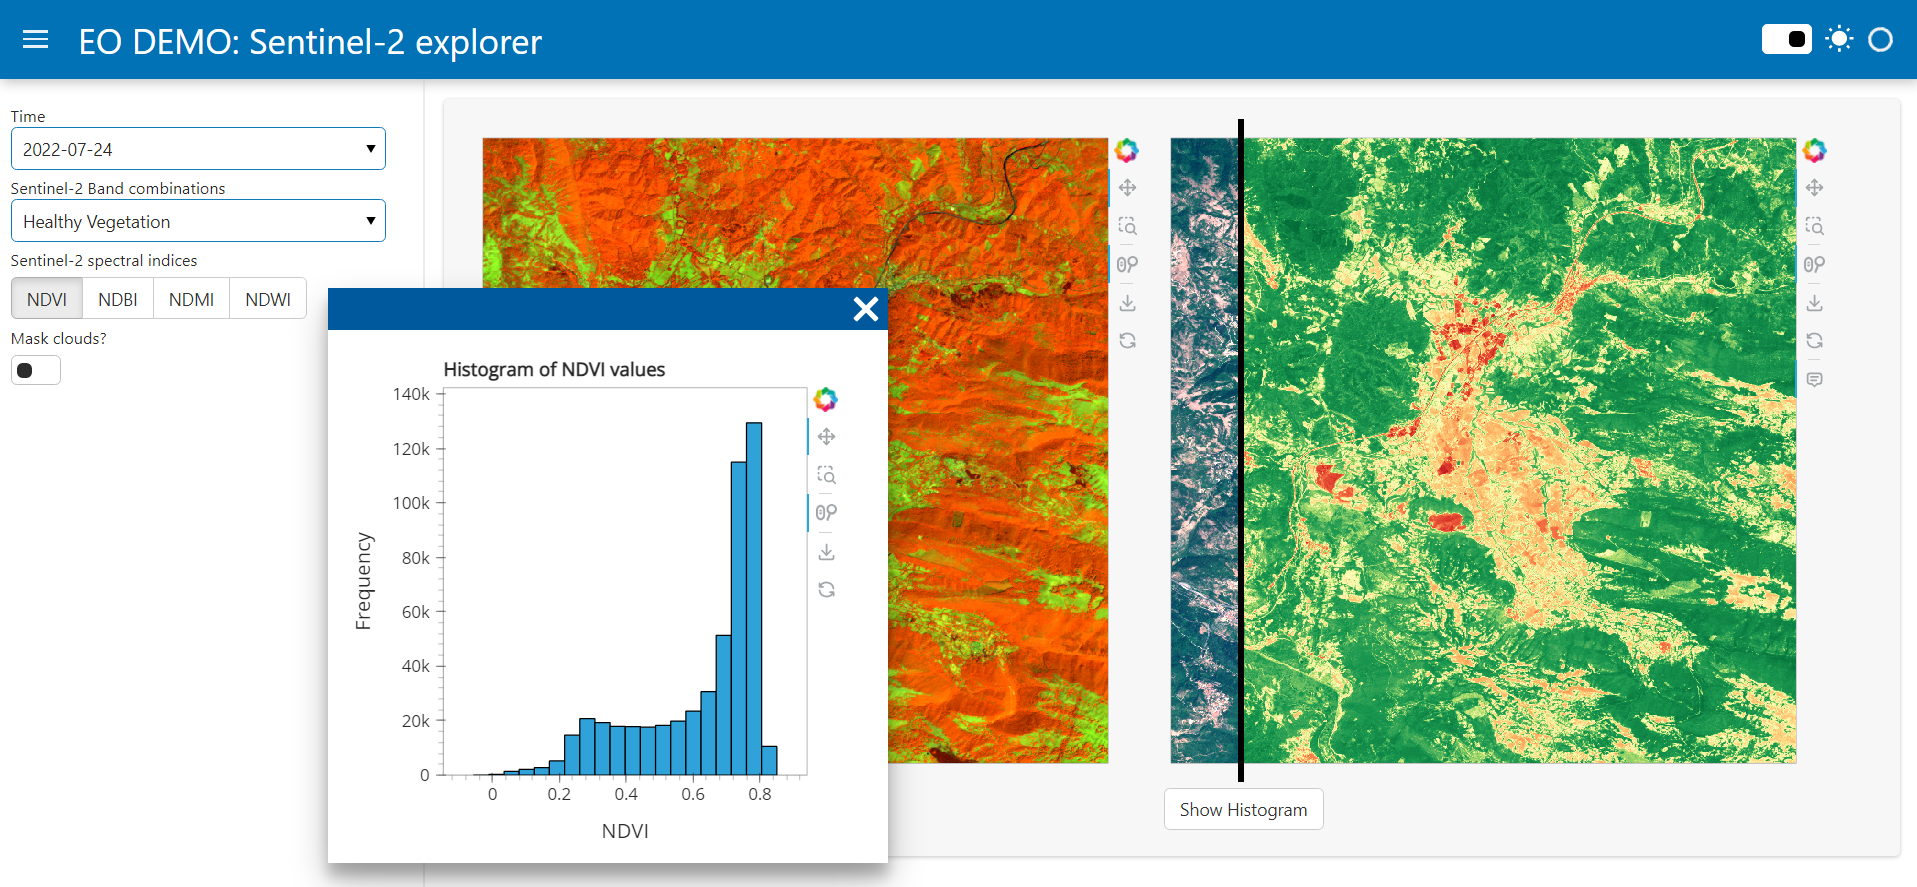
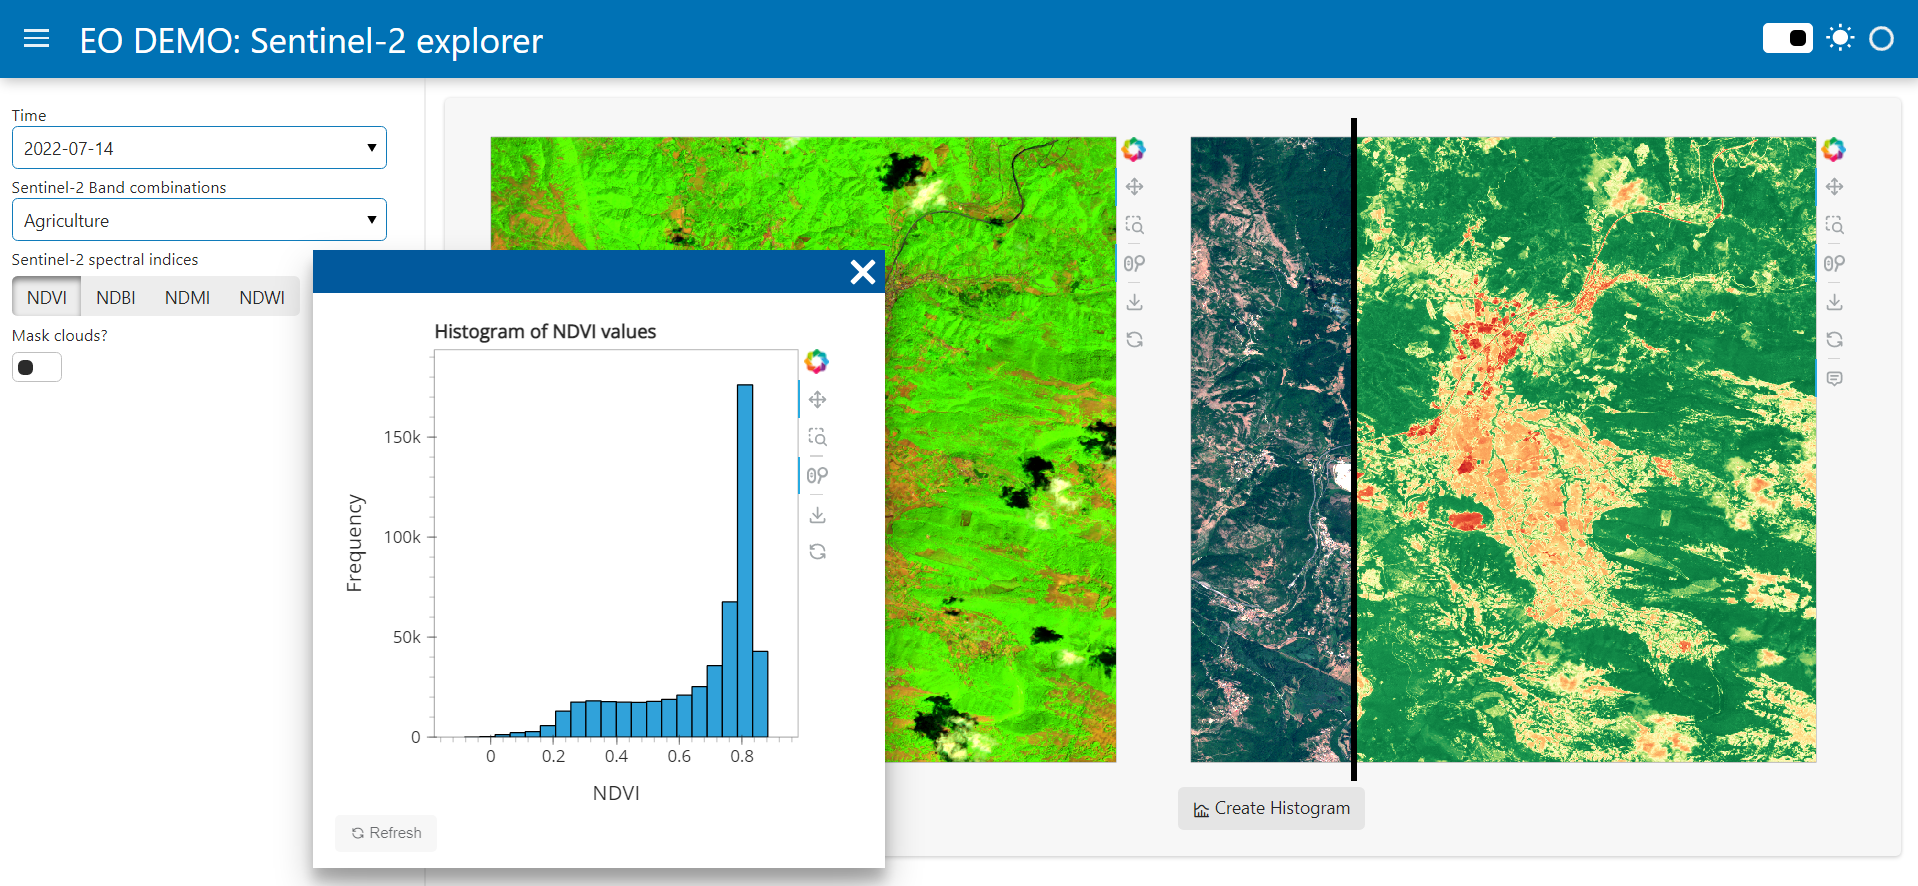
Misc improvements - Added a button to refresh the histogram when the data changes - Updated requirements to include scipy (dependency required by xarray to read netcdf) - Updated s2-panel-app/images/dashboard.png - Updated README.md - Minor fixes

diff --git a/s2-panel-app/app.py b/s2-panel-app/app.py
@@ -7,13 +7,26 @@ from modules.image_plots import (
     plot_s2_spindex,
     plot_true_color_image,
 )
-from modules.image_statistics import plot_s2_spindex_hist
+from modules.image_statistics import HIST_PLACEHOLDER, plot_s2_spindex_hist
 
-# Load floatpanel extension
+# Load the floatpanel extension
 pn.extension("floatpanel")
 
 # Disable webgl: https://github.com/holoviz/panel/issues/4855
 hv.renderer("bokeh").webgl = False
+
+
+def get_band_comb_text(band_comb):
+    """
+    A function that return a StaticText showing
+    the selected band combination.
+    """
+
+    band_comb_text = pn.widgets.StaticText(
+        name="Band Combination", value=", ".join(band_comb)
+    )
+
+    return band_comb_text
 
 
 def create_s2_dashboard():
@@ -47,29 +60,20 @@ def create_s2_dashboard():
         options=S2_SPINDICES,
     )
 
-    # A StaticText showing the selected band combination
-    band_comb_text = pn.widgets.StaticText(
-        name="Band Combination", value=", ".join(S2_BAND_COMB["True Color"])
-    )
-
-    # Save the StaticText to the cache
-    pn.state.cache["band_text"] = band_comb_text
-
-    # Create a placeholder for the FloatPanel
-    placeholder = pn.Column(height=0, width=0)
-
-    # Save the placeholder to the cache so that it can be used in the histogram function
-    pn.state.cache["placeholder"] = placeholder
-
-    # Histogram button
-    show_hist_bt = pn.widgets.Button(name="Show Histogram")
+    # Create histogram button
+    show_hist_bt = pn.widgets.Button(name="Create Histogram", icon="chart-histogram")
     show_hist_bt.on_click(plot_s2_spindex_hist)
 
     # Mask clouds Switch
     clm_title = pn.widgets.StaticText(name="", value="Mask clouds?")
     clm_switch = pn.widgets.Switch(name="Switch")
 
-    # Bind image plots
+    # Bind image plots and widgets to the selectors
+    s2_band_comb_text_bind = pn.bind(
+        get_band_comb_text,
+        band_comb=s2_band_comb_select,
+    )
+
     s2_true_color_bind = pn.bind(
         plot_true_color_image,
         in_data=s2_data,
@@ -98,8 +102,8 @@ def create_s2_dashboard():
 
     # Create the main layout
     main_layout = pn.Row(
-        pn.Column(s2_band_comb_bind, band_comb_text),
-        pn.Column(placeholder, spindex_truecolor_swipe, show_hist_bt),
+        pn.Column(s2_band_comb_bind, s2_band_comb_text_bind),
+        pn.Column(HIST_PLACEHOLDER, spindex_truecolor_swipe, show_hist_bt),
     )
 
     # Create the dashboard and turn into a deployable application

diff --git a/s2-panel-app/modules/image_statistics.py b/s2-panel-app/modules/image_statistics.py
@@ -4,6 +4,31 @@ import panel as pn
 from bokeh.models import WheelZoomTool
 from bokeh.models.formatters import NumeralTickFormatter
 
+# Create a placeholder for the FloatPanel
+HIST_PLACEHOLDER = pn.Column(height=0, width=0)
+
+# https://jspanel.de/#options
+FLOATPANEL_CONFIGS = {
+    "resizeit": {"disable": "true"},
+    "headerControls": "closeonly",
+    "closeOnEscape": "true",
+}
+
+# Save the histogram placeholder to the cache
+pn.state.cache["hist_placeholder"] = HIST_PLACEHOLDER
+pn.state.cache["hist_refresh_bt"] = []
+
+
+def enable_hist_refresh_bt():
+    """
+    This function enables the refresh button used to update the histogram plot
+    """
+
+    refresh_bt = pn.state.cache["hist_refresh_bt"]
+    if refresh_bt:
+        refresh_bt.button_type = "warning"
+        refresh_bt.disabled = False
+
 
 def plot_s2_spindex_hist(event):
     """
@@ -45,17 +70,23 @@ def plot_s2_spindex_hist(event):
         height=400,
     )
 
-    # https://jspanel.de/#options
-    config = {
-        "resizeit": {"disable": "true"},
-        "headerControls": "closeonly",
-        "closeOnEscape": "true",
-    }
+    # A button to refresh the histogram
+    refresh_bt = pn.widgets.Button(name="Refresh", icon="refresh")
+    refresh_bt.on_click(plot_s2_spindex_hist)
+    refresh_bt.disabled = True
+
+    # Assign the refresh button to the cache
+    pn.state.cache["hist_refresh_bt"] = refresh_bt
 
     # Embed the histogram in a FloatPanel
     float_hist = pn.layout.FloatPanel(
-        spindex_hist, contained=False, position="center", margin=20, config=config
+        spindex_hist,
+        refresh_bt,
+        contained=False,
+        position="center",
+        margin=20,
+        config=FLOATPANEL_CONFIGS,
     )
 
     # Show the dialog
-    pn.state.cache["placeholder"][:] = [float_hist]
+    pn.state.cache["hist_placeholder"][:] = [float_hist]

diff --git a/s2-panel-app/modules/image_plots.py b/s2-panel-app/modules/image_plots.py
@@ -3,6 +3,7 @@ import numpy as np
 import panel as pn
 from bokeh.models import CustomJSHover, HoverTool, WheelZoomTool
 from modules.image_processing import s2_contrast_stretch, s2_image_to_uint8
+from modules.image_statistics import enable_hist_refresh_bt
 
 # This function hide the tooltip when the pixel value is NaN
 HIDE_NAN_HOVTOOL = CustomJSHover(
@@ -111,9 +112,6 @@ def plot_s2_band_comb(in_data, time, band_comb, mask_clouds):
                 tool.zoom_on_axis = False
                 break
 
-    # Update the StaticText showing the selected band combination
-    pn.state.cache["band_text"].value = ", ".join(band_comb)
-
     # Get the selected image and band combination
     out_data = in_data.sel(band=band_comb, time=time)
 
@@ -219,6 +217,9 @@ def plot_s2_spindex(in_data, time, s2_spindex, mask_clouds):
 
     # Assign this array to the pn.cache
     assign_spindex_to_cache(s2_spindex_name, plot_data_mask)
+
+    # Enable the refresh button of the histogram plot
+    enable_hist_refresh_bt()
 
     # Plot the computed spectral index
     the_plot = hv.Image((out_data["x"], out_data["y"], plot_data_mask)).opts(

diff --git a/README.md b/README.md
@@ -32,7 +32,12 @@ Sentinel-2 L1C imagery acquired via [sentinelhub-py](https://sentinelhub-py.read
 - [Sentinel 2 Bands and Combinations](https://gisgeography.com/sentinel-2-bands-combinations/)
 - [List of band combinations in Sentinel 2](https://giscrack.com/list-of-band-combinations-in-sentinel-2a/)
 
+### ToDo
+
+- [ ] Add a widget to select a pixel from the right image and a FloatPanel to show its spectral signature.
+
 ### Set up
+
 To run this dashboard you will need to do the following steps:
 
 1. Git clone this repository:
